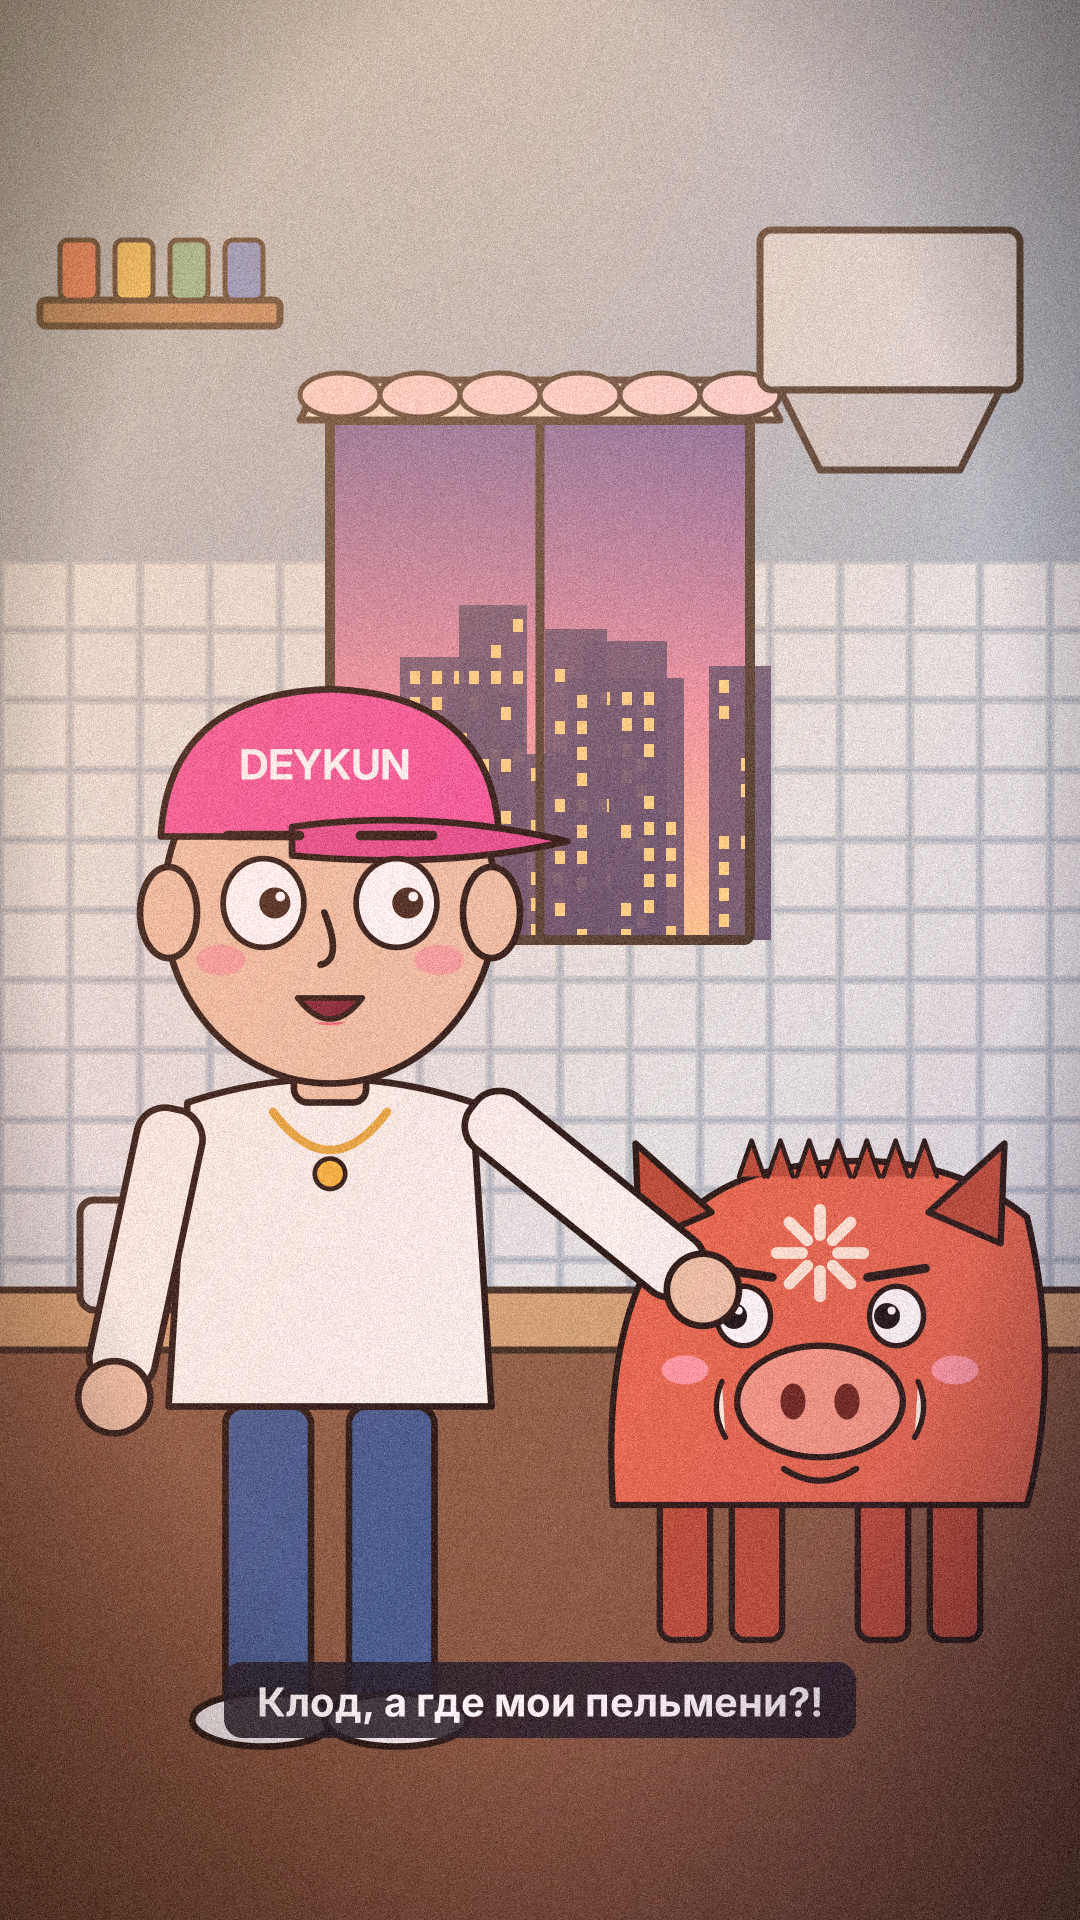
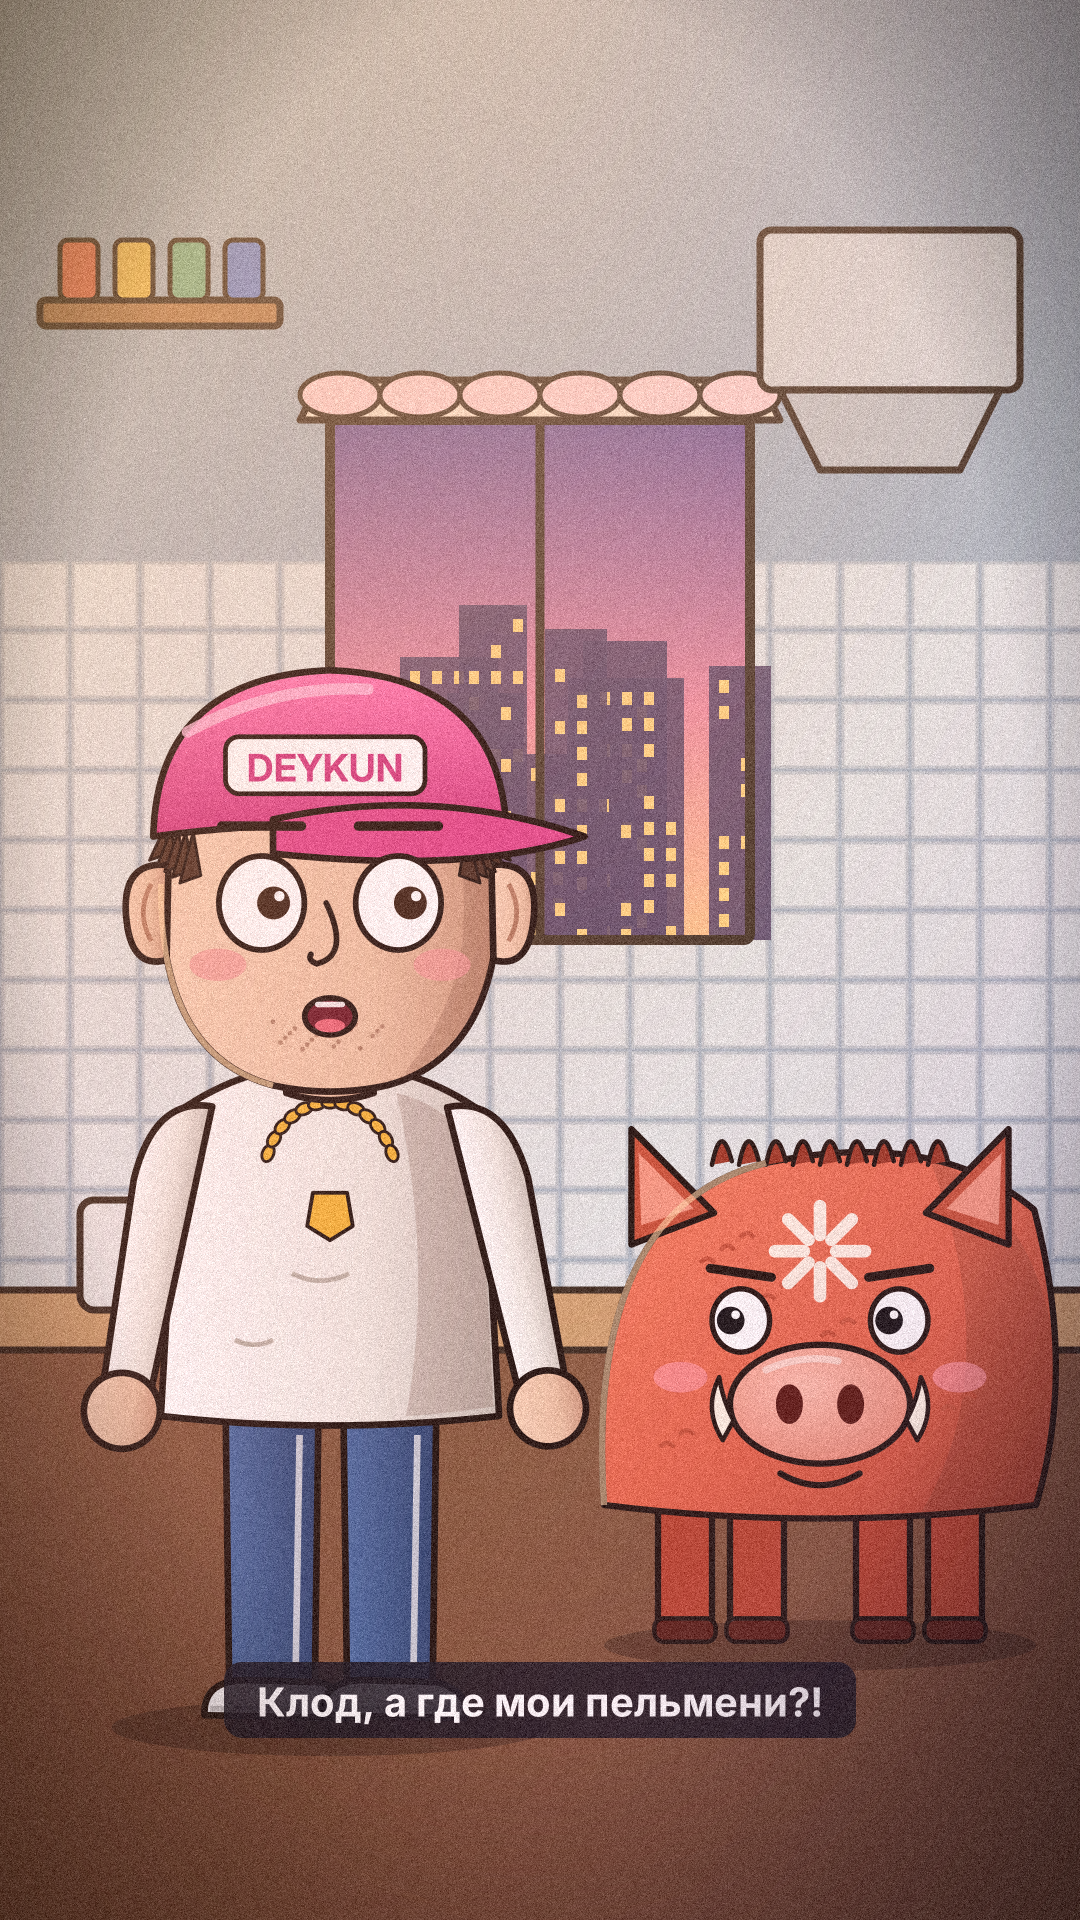
Drawn style v2: cel shading, rim light, detailed faces/clothes, fur, proper open mouths, stronger pixel-art mode
Claude-Session: https://claude.ai/code/session_01WpmoiMUSVf7vGxBeVrD2Lm

Changed region(s): [[0.0611, 0.3438, 0.9778, 0.875], [0.2139, 0.875, 0.4583, 0.9375], [0.1833, 0.7812, 0.2139, 0.9062]]

diff --git a/drawn/drawn2d.py b/drawn/drawn2d.py
@@ -38,6 +38,14 @@ DEFS = '''<defs>
 <linearGradient id="warm" x1="0" y1="0" x2="1" y2="1"><stop offset="0" stop-color="#FFB86B" stop-opacity="0.35"/><stop offset="0.6" stop-color="#FF7FA0" stop-opacity="0.08"/><stop offset="1" stop-color="#3A2A6A" stop-opacity="0.25"/></linearGradient>
 <radialGradient id="vig" cx="0.5" cy="0.45" r="0.75"><stop offset="0.6" stop-color="#000" stop-opacity="0"/><stop offset="1" stop-color="#1A0F08" stop-opacity="0.55"/></radialGradient>
 <radialGradient id="lamp" cx="0.5" cy="0" r="1"><stop offset="0" stop-color="#FFE3A8" stop-opacity="0.7"/><stop offset="1" stop-color="#FFE3A8" stop-opacity="0"/></radialGradient>
+<linearGradient id="skinG" x1="0" y1="0" x2="1" y2="0"><stop offset="0" stop-color="#F6D3B8"/><stop offset="0.62" stop-color="#EBC3A5"/><stop offset="1" stop-color="#C9967A"/></linearGradient>
+<linearGradient id="teeG" x1="0" y1="0" x2="1" y2="0"><stop offset="0" stop-color="#FFFFFF"/><stop offset="0.6" stop-color="#EEE9E1"/><stop offset="1" stop-color="#C8C0B6"/></linearGradient>
+<linearGradient id="capG" x1="0" y1="0" x2="0" y2="1"><stop offset="0" stop-color="#FF7DB4"/><stop offset="1" stop-color="#D23F82"/></linearGradient>
+<linearGradient id="jeansG" x1="0" y1="0" x2="1" y2="0"><stop offset="0" stop-color="#4D6EA3"/><stop offset="1" stop-color="#2F4670"/></linearGradient>
+<linearGradient id="klodG" x1="0" y1="0" x2="1" y2="1"><stop offset="0" stop-color="#F58566"/><stop offset="0.55" stop-color="#E5684B"/><stop offset="1" stop-color="#B9472F"/></linearGradient>
+<radialGradient id="snoutG" cx="0.4" cy="0.35" r="0.8"><stop offset="0" stop-color="#FFC2B0"/><stop offset="1" stop-color="#E88A72"/></radialGradient>
+<radialGradient id="glowWin" cx="0.62" cy="0.3" r="0.55"><stop offset="0" stop-color="#FFB37A" stop-opacity="0.45"/><stop offset="1" stop-color="#FFB37A" stop-opacity="0"/></radialGradient>
+<radialGradient id="glowMon" cx="0.3" cy="0.5" r="0.45"><stop offset="0" stop-color="#7FA8FF" stop-opacity="0.35"/><stop offset="1" stop-color="#7FA8FF" stop-opacity="0"/></radialGradient>
 </defs>'''
 
 
@@ -78,7 +86,9 @@ def room(t):
     o.append(R(0, 1250, 1080, 670, "#6B4A3A", 0, 0)); o.append(R(60, 1120, 640, 40, "#9C6B45", 6))  # desk
     o.append(R(140, 820, 420, 280, "#22262E", 14)); o.append(R(165, 845, 370, 230, "#3D6FD8", 6, 5))  # monitor
     for k in range(6): o.append(f'<rect x="185" y="{870 + k * 32}" width="{120 + (k * 53) % 180}" height="12" fill="#BFD3FF" opacity="0.8"/>')
-    o.append(f'<rect width="1080" height="1920" fill="url(#lamp)" opacity="0.4"/>')
+    o.append(R(760, 1120, 70, 90, "#7FA36A", 10, 5)); o.append(P("M770,1120 q-30,-90 25,-120 q10,60 -10,120 M800,1120 q20,-100 60,-110 q-10,70 -45,110", "#5E9A54", 5))  # plant
+    o.append(R(600, 1080, 80, 40, "#E9D9C2", 8, 5))   # mug
+    o.append(f'<rect width="1080" height="1920" fill="url(#lamp)" opacity="0.4"/><rect width="1080" height="1920" fill="url(#glowWin)"/><rect width="1080" height="1920" fill="url(#glowMon)"/>')
     return "".join(o)
 
 
@@ -106,11 +116,13 @@ def brows(x1, x2, y, w, expr):
 
 def mouth(x, y, m, expr, w=34):
     if m > 0.05:
-        h = 10 + 40 * m
-        return (P(f"M{x - w},{y} Q{x},{y + h * 1.3} {x + w},{y} Z", "#7A2230", 6)
-                + (f'<path d="M{x - w * 0.5},{y + h * 0.75} Q{x},{y + h * 0.95} {x + w * 0.5},{y + h * 0.75}" fill="#E86A7A" stroke="none"/>' if m > 0.4 else ""))
+        h = 12 + 34 * m; ww = w * (0.55 + 0.25 * m)
+        o = E(x, y + h * 0.35, ww, h * 0.6, "#6E1E2A", 6)
+        if m > 0.35: o += f'<ellipse cx="{x}" cy="{y + h * 0.65}" rx="{ww * 0.6}" ry="{h * 0.22}" fill="#E86A7A"/>'
+        o += f'<rect x="{x - ww * 0.6}" y="{y + h * 0.35 - h * 0.6 + 4}" width="{ww * 1.2}" height="{max(5, h * 0.18)}" rx="3" fill="#FFFFFF" opacity="0.9"/>'
+        return o
     if expr in ("happy", "smug"): return f'<path d="M{x - w},{y} Q{x},{y + 26} {x + w},{y}" fill="none" stroke="{OUT}" stroke-width="7" stroke-linecap="round"/>'
-    if expr == "sad": return f'<path d="M{x - w},{y + 14} Q{x},{y - 8} {x + w},{y + 14}" fill="none" stroke="{OUT}" stroke-width="7" stroke-linecap="round"/>'
+    if expr in ("sad", "angry"): return f'<path d="M{x - w},{y + 14} Q{x},{y - 8} {x + w},{y + 14}" fill="none" stroke="{OUT}" stroke-width="7" stroke-linecap="round"/>'
     return f'<line x1="{x - w * 0.7}" y1="{y + 4}" x2="{x + w * 0.7}" y2="{y + 4}" stroke="{OUT}" stroke-width="7" stroke-linecap="round"/>'
 
 
@@ -159,6 +171,91 @@ def klod(cx, cy, s=1.0, mouth_open=0.0, expr="neutral", blink=False, look=(0, 0)
     return "".join(g)
 
 
+# ---------------- v2 "quality" heroes: cel shading, rim light, details (override the simple ones above) ----------------
+def _shadow(d):
+    return f'<path d="{d}" fill="#5A2E1E" opacity="0.18" stroke="none"/>'
+
+
+def ruslan(cx, cy, s=1.0, mouth_open=0.0, expr="neutral", blink=False, look=(0, 0), arm=0.0):
+    g = [f'<g transform="translate({cx},{cy}) scale({s})">']
+    g.append(E(0, 8, 230, 30, "#000", 0) .replace('fill="#000"', 'fill="#000" opacity="0.25"'))                # ground shadow
+    for x in (-62, 62):
+        g.append(P(f"M{x - 48},-335 L{x - 44},-30 Q{x},-14 {x + 46},-30 L{x + 50},-335 Z", "url(#jeansG)"))
+        g.append(f'<path d="M{x + 30},-300 L{x + 26},-60" stroke="#E8E8E8" stroke-width="7" opacity="0.8"/>')  # side stripe
+        g.append(P(f"M{x - 70},-5 Q{x - 72},-40 {x - 30},-42 L{x + 50},-40 Q{x + 86},-30 {x + 80},-2 Z", "#F7F7F7"))
+        g.append(f'<path d="M{x - 64},-12 L{x + 74},-12" stroke="#C9C9C9" stroke-width="6"/>')
+    g.append(P("M-178,-320 L-160,-640 Q-90,-690 0,-692 Q90,-690 160,-640 L178,-320 Q0,-300 -178,-320 Z", "url(#teeG)"))
+    g.append(_shadow("M70,-660 Q150,-640 160,-560 L172,-330 Q120,-322 80,-320 Q110,-480 70,-660 Z"))
+    g.append('<path d="M-40,-470 Q-10,-455 20,-470 M-100,-400 Q-80,-390 -60,-400" stroke="#BDB4A8" stroke-width="5" fill="none"/>')  # folds
+    for k in range(13):                                                                     # gold chain links
+        a = -1.2 + k * 0.2; x = 70 * math.sin(a); y = -650 + 70 * (1 - math.cos(a)) * 1.2
+        g.append(E(x, y, 9, 6, "#F2B53A", 3, rot=int(a * 57)))
+    g.append(P("M-18,-555 L18,-555 L24,-520 L0,-505 L-24,-520 Z", "#F2B53A", 4))
+    # arms
+    g.append(f'<g transform="rotate({-12 - 75 * arm} 150 -625)">' + P("M128,-650 Q190,-650 196,-560 L190,-330 Q165,-312 140,-330 Z", "url(#teeG)")
+             + C(166, -318, 40, "url(#skinG)") + "</g>")
+    g.append('<g transform="rotate(10 -150 -625)">' + P("M-128,-650 Q-190,-650 -196,-560 L-190,-330 Q-165,-312 -140,-330 Z", "url(#teeG)")
+             + C(-166, -318, 40, "url(#skinG)") + "</g>")
+    g.append(P("M-42,-735 L42,-735 L46,-660 Q0,-645 -46,-660 Z", "url(#skinG)"))               # neck
+    # head
+    g.append(P("M-178,-880 Q-180,-700 -60,-668 Q0,-655 60,-668 Q180,-700 178,-880 Q170,-1010 0,-1015 Q-170,-1010 -178,-880 Z", "url(#skinG)"))
+    g.append(_shadow("M100,-1000 Q178,-960 178,-880 Q180,-720 70,-672 Q150,-760 140,-880 Q140,-960 100,-1000 Z"))
+    for sx in (-1, 1):
+        g.append(P(f"M{sx * 170},-900 Q{sx * 222},-905 {sx * 214},-840 Q{sx * 208},-790 {sx * 172},-800 Z", "url(#skinG)"))
+        g.append(f'<path d="M{sx * 188},-880 Q{sx * 205},-850 {sx * 188},-820" stroke="#B57E62" stroke-width="5" fill="none"/>')
+    for k in range(5): g.append(P(f"M{-176 + k * 8},-935 l-14,{30 + k * 6} l22,-8 Z", "#4A3224", 3))  # sideburn tufts
+    for k in range(5): g.append(P(f"M{176 - k * 8},-935 l14,{30 + k * 6} l-22,-8 Z", "#4A3224", 3))
+    # cap
+    g.append(P("M-186,-930 Q-182,-1098 0,-1105 Q182,-1098 186,-930 Q0,-955 -186,-930 Z", "url(#capG)"))
+    g.append('<path d="M-150,-1040 Q-60,-1090 40,-1085" stroke="#FFC0DA" stroke-width="12" fill="none" stroke-linecap="round" opacity="0.8"/>')  # highlight
+    g.append(P("M-60,-948 Q110,-985 268,-930 Q150,-890 -60,-912 Z", "#E04A8C"))
+    g.append(R(-110, -1035, 210, 60, "#FFFFFF", 14, 5))
+    g.append('<text x="-5" y="-1002" text-anchor="middle" dominant-baseline="middle" font-family="Inter Display" font-weight="900" font-size="40" fill="#D23F82">DEYKUN</text>')
+    # face
+    g.append(eyes(-72, 72, -860, 36, look, blink, expr))
+    if not blink and expr not in ("shock", "panic"):
+        for x in (-72, 72): g.append(f'<path d="M{x - 40},-878 Q{x},-905 {x + 40},-878" fill="url(#skinG)" stroke="{OUT}" stroke-width="6"/>')  # upper lids
+    g.append(brows(-72, 72, -925, 42, expr))
+    g.append(E(-118, -795, 30, 17, "#F29A9A", 0).replace('fill="#F29A9A"', 'fill="#F29A9A" opacity="0.7"'))
+    g.append(E(118, -795, 30, 17, "#F29A9A", 0).replace('fill="#F29A9A"', 'fill="#F29A9A" opacity="0.7"'))
+    g.append(P("M-4,-860 Q22,-805 -14,-796 Q-24,-800 -20,-806", "none", 6))
+    for k in range(18): g.append(C(-60 + (k * 23) % 120, -735 + (k * 7) % 30, 2.5, "#B88A70", 0))      # stubble
+    g.append(mouth(0, -752, mouth_open, expr, 38))
+    g.append('<path d="M-178,-880 Q-180,-700 -60,-668" stroke="#FFD9A8" stroke-width="6" fill="none" opacity="0.7"/>')   # warm rim light
+    g.append("</g>")
+    return "".join(g)
+
+
+def klod(cx, cy, s=1.0, mouth_open=0.0, expr="neutral", blink=False, look=(0, 0), ear=0.0):
+    dark = "#9E3B26"
+    g = [f'<g transform="translate({cx},{cy}) scale({s})">']
+    g.append(E(0, 6, 240, 28, "#000", 0).replace('fill="#000"', 'fill="#000" opacity="0.25"'))
+    for x in (-150, -70, 70, 150):
+        g.append(R(x - 30, -185, 60, 185, "#B9472F", 16)); g.append(R(x - 34, -24, 68, 26, "#5A2418", 10, 5))   # legs + hooves
+    g.append(P("M-240,-150 Q-262,-480 -60,-530 Q130,-570 238,-478 Q285,-300 240,-150 Q0,-120 -240,-150 Z", "url(#klodG)"))
+    g.append(_shadow("M120,-540 Q238,-478 260,-330 Q262,-200 240,-150 Q160,-136 110,-138 Q210,-300 120,-540 Z"))
+    for k in range(9): g.append(P(f"M{-120 + k * 30},-528 q10,-50 22,-4", dark, 5))                       # mane tufts
+    for k in range(14):                                                                                     # fur strokes
+        x = -200 + (k * 67) % 380; y = -460 + (k * 41) % 260
+        g.append(f'<path d="M{x},{y} q8,-10 16,0" stroke="#C8553A" stroke-width="5" fill="none"/>')
+    for sx in (-1, 1):
+        g.append(f'<g transform="rotate({sx * (8 + 18 * ear)} {sx * 150} -475)">' + P(f"M{sx * 118},-470 L{sx * 196},-575 L{sx * 214},-448 Z", "#C8553A")
+                 + P(f"M{sx * 140},-478 L{sx * 192},-548 L{sx * 200},-468 Z", "#F49A82", 0) + "</g>")
+    for k in range(8):
+        a = k * math.pi / 4
+        g.append(f'<line x1="{18 * math.cos(a)}" y1="{-432 + 18 * math.sin(a)}" x2="{50 * math.cos(a)}" y2="{-432 + 50 * math.sin(a)}" stroke="#FFF1E4" stroke-width="14" stroke-linecap="round"/>')
+    g.append(eyes(-88, 88, -355, 32, look, blink, expr, "#141414")); g.append(brows(-88, 88, -405, 34, expr))
+    g.append(E(-155, -292, 30, 17, "#FF9AA2", 0).replace('fill="#FF9AA2"', 'fill="#FF9AA2" opacity="0.7"'))
+    g.append(E(155, -292, 30, 17, "#FF9AA2", 0).replace('fill="#FF9AA2"', 'fill="#FF9AA2" opacity="0.7"'))
+    g.append(E(0, -262, 100, 66, "url(#snoutG)")); g.append(E(-34, -262, 15, 22, "#5A1C12", 0)); g.append(E(34, -262, 15, 22, "#5A1C12", 0))
+    g.append('<path d="M-60,-300 Q-20,-318 20,-310" stroke="#FFE1D6" stroke-width="8" fill="none" opacity="0.8" stroke-linecap="round"/>')   # snout highlight
+    for sx in (-1, 1): g.append(P(f"M{sx * 108},-222 q{sx * 22},-34 {sx * 4},-70 q{sx * -4},26 {sx * -16},48 Z", "#FFF6E6", 5))
+    g.append(mouth(0, -185, mouth_open, expr, 44))
+    g.append('<path d="M-240,-150 Q-262,-480 -60,-530" stroke="#FFD9A8" stroke-width="7" fill="none" opacity="0.6"/>')   # rim light
+    g.append("</g>")
+    return "".join(g)
+
+
 def bubble_caption(txt, y=1700):
     w = 22 * len(txt) + 60
     return (f'<rect x="{540 - w / 2}" y="{y - 38}" width="{w}" height="76" rx="18" fill="#1B1B22" opacity="0.88"/>'
@@ -179,7 +276,7 @@ def paper(img, seed=1, amount=10):
     return Image.fromarray(np.clip(a + n, 0, 255).astype(np.uint8))
 
 
-def pixelate(img, factor=4, colors=48):
+def pixelate(img, factor=6, colors=80):
     """HD pixel-art look (like @tony.shev.ai): downscale, limit palette, upscale with hard pixels."""
     from PIL import Image
     w, h = img.size
@@ -200,7 +297,7 @@ def chat_pill(txt, x=1040, y=180, accent="#E8806A", avatar="К"):
 if __name__ == "__main__" and len(sys.argv) > 1 and sys.argv[1] == "pixel":
     import io, cairosvg
     from PIL import Image
-    body = (room(0) + ruslan(380, 1740, 1.0, 0.5, "angry", look=(0, 1), arm=0.2) + klod(830, 1640, 0.8, 0.0, "smug", look=(-1, 0))
+    body = (room(0) + ruslan(420, 2350, 1.75, 0.55, "angry", look=(1, 0), arm=0.1) + klod(900, 1830, 0.75, 0.0, "smug", look=(-1, 0))
             + chat_pill("Опять списали 20 долларов!", avatar="Р", accent="#D9606A"))
     img = Image.open(io.BytesIO(cairosvg.svg2png(bytestring=grade(body).encode())))
     pixelate(img).save("drawn/demo_pixel.png"); print("drawn/demo_pixel.png")
@@ -208,6 +305,6 @@ if __name__ == "__main__" and len(sys.argv) > 1 and sys.argv[1] == "pixel":
 if __name__ == "__main__" and len(sys.argv) > 1 and sys.argv[1] == "demo":
     import io, cairosvg
     from PIL import Image
-    body = kitchen(0) + klod(820, 1640, 0.9, 0.0, "smug", look=(-1, 0)) + ruslan(330, 1720, 0.95, 0.6, "shock", look=(1, 0), arm=0.6) + bubble_caption("Клод, а где мои пельмени?!")
+    body = kitchen(0) + klod(820, 1640, 0.9, 0.0, "smug", look=(-1, 0)) + ruslan(330, 1720, 0.95, 0.6, "shock", look=(1, 0), arm=0.0) + bubble_caption("Клод, а где мои пельмени?!")
     img = Image.open(io.BytesIO(cairosvg.svg2png(bytestring=grade(body).encode())))
     paper(img).save("drawn/demo.png"); print("drawn/demo.png")
